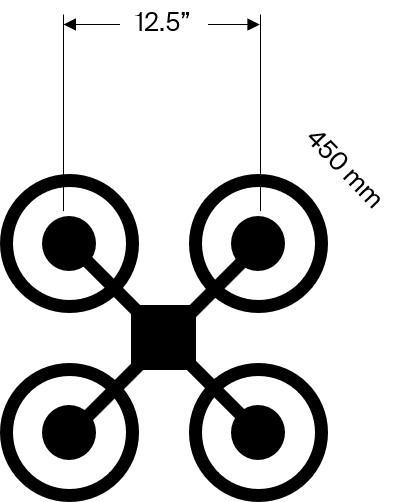
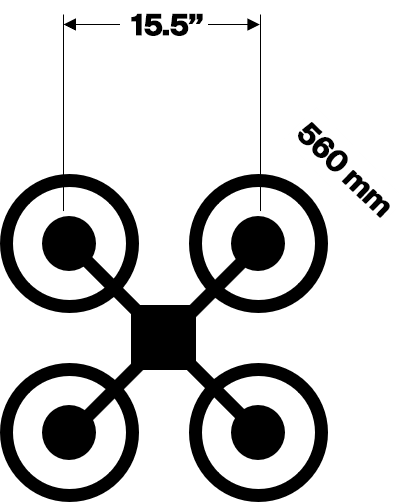
updated design doc diagrams

Changed region(s): [[0.7389, 0.239, 0.9754, 0.4482], [0.3251, 0.0, 0.5025, 0.0896]]

diff --git a/docs/design/3_2_multirotor_v2.tex b/docs/design/3_2_multirotor_v2.tex
@@ -146,11 +146,11 @@ The multirotor sports four 700 KV motors with stator size 3508.  According to dr
 Our decision process consists of screening and ranking the best motors through applying priorities as follows:
 
 \begin{enumerate}
-    \item Voltage: We chose a motor that operates between 12.0 V and 20.0 V, which is sufficient for heavy operations.
-    \item KV constant: Since the motors' RPM-per-volt ratio (KV constant) is inversely proportional of torque-per-current ratio (KT constant), we chose motors that have KV constants between 500 KV and 1000 KV. These constants are considered low-speed and high-torque, and are typically used for large drones and endurance flights. We also chose this range such that the propellers can spin slower and more efficiently, extending the maximum flight time.
-    \item Rotor size: As mentioned in the previous section on inrunners vs. outrunners, larger rotors imply a lower KV and higher KT. As a result, we chose motors within the 500 KV to 1000 KV range. Markets show that sizes denoted 3508 to 2212 are adequate for this purpose.
-    \item Maximum rated power: KV and KT constants are a simplified model for motor characteristics. The maximum power output is derived when considering realistic non-idealities such as heat, motor resistance, and mechanical limits. Typically 500 KV to 1000 KV motors have a rating between 150 W to 400 W, depending on the brand. We optimize for the most performant option allotted by our budget.
-    \item Weight: Given that the weight of motors have little variance, we prioritize this parameter the least.
+	\item Voltage: We chose a motor that operates between 12.0 V and 20.0 V, which is sufficient for heavy operations.
+	\item KV constant: Since the motors' RPM-per-volt ratio (KV constant) is inversely proportional of torque-per-current ratio (KT constant), we chose motors that have KV constants between 500 KV and 1000 KV. These constants are considered low-speed and high-torque, and are typically used for large drones and endurance flights. We also chose this range such that the propellers can spin slower and more efficiently, extending the maximum flight time.
+	\item Rotor size: As mentioned in the previous section on inrunners vs. outrunners, larger rotors imply a lower KV and higher KT. As a result, we chose motors within the 500 KV to 1000 KV range. Markets show that sizes denoted 3508 to 2212 are adequate for this purpose.
+	\item Maximum rated power: KV and KT constants are a simplified model for motor characteristics. The maximum power output is derived when considering realistic non-idealities such as heat, motor resistance, and mechanical limits. Typically 500 KV to 1000 KV motors have a rating between 150 W to 400 W, depending on the brand. We optimize for the most performant option allotted by our budget.
+	\item Weight: Given that the weight of motors have little variance, we prioritize this parameter the least.
 \end{enumerate}
 
 \paragraph{Electronic Speed Controllers}
@@ -173,18 +173,17 @@ Carbon fibre propellers are tough and rigid and produces efficient and low-noise
 We choose propellers with size 1250, where 12 denotes 12 inches in diameter, and 50 denotes 5.0 inches in propeller pitch. To maximize thrust and minimize speed (seeing how low speed is more desirable, as mentioned in Section \ref{section:motor-speed}), we strike a balance if we choose 11 to 13 inch propellers to be fitted onto the multirotor.
 
 \begin{figure}[h]
-    \centering
-    \includegraphics[scale=0.5]{img/proppitch}
-    \caption{Propellor Diameter and Pitch Parameters}
-    \label{fig:propeller}
+	\centering
+	\includegraphics[scale=0.5]{img/proppitch}
+	\caption{Propellor Diameter and Pitch Parameters}
+	\label{fig:propeller}
 \end{figure}
 
-% TODO: update this graph
 \begin{figure}[h]
-    \centering
-    \includegraphics[scale=0.5]{img/framepropsize}
-    \caption{Maximum Propeller Sizes}
-    \label{fig:framepropsize}
+	\centering
+	\includegraphics[width=0.2\textwidth]{img/framepropsize}
+	\caption{Maximum Propeller Sizes}
+	\label{fig:framepropsize}
 \end{figure}
 
 As mentioned in Section \ref{section:drone-mech} the frame size is 560 mm (22 inches), which means that the motor to motor adjacent span is about 15.5 inches (by dividing by $\sqrt{2}$). The  compatible size of propellers are between 11 to 14 inches to ensure several inches of clearance between propellers.
@@ -195,15 +194,14 @@ Mentioned in Section \ref{section:motor-speed}, we chose low-speed motors for th
 
 \paragraph{Battery}
 
-\begin{figure}[h]
-    \centering
-    \includegraphics[width=0.5\textwidth]{img/energydensity.png}
-    \caption{Energy Density Graph of Battery Types}
-    \label{fig:batterytypes}
-\end{figure}
-
 We choose lithium polymer (Li-Po) batteries as they have the highest energy density (highest capacity to weight ratio), and are thus  perfect for high-power, low-weight applications. Figure~\ref{fig:batterytypes} shows a graph of the energy densities for differing types of batteries \cite{battery} --- from this graph, Li-Po batteries are the clear choice.
 
+\begin{figure}[h]
+	\centering
+	\includegraphics[width=0.5\textwidth]{img/energydensity.png}
+	\caption{Energy Density Graph of Battery Types}
+	\label{fig:batterytypes}
+\end{figure}
 
 For a multirotor of this size, typical configurations include 3S and 4S (3 cells in series and 4 cells in series respectively) . As part of our deliverables (see List of Deliverables document), we provide a single 3S 5000 mAh battery with discharge rating of 30 C. The discharge rating indicates the maximum discharge current of the battery\cite{crate}:
 
@@ -216,17 +214,17 @@ $$
 Figure \ref{fig:pdb} depicts the layout of electrical power distribution for the multirotor subsystems. The 11.0 to 12.0 V from the 3S battery (or 14.0 to 15.0V of 4S batteries) is connected to a central PCB for power distribution. All the ESCs are to be connected in parallel to draw current from the battery. The power distribution board also has built-in voltage regulators for 5.0 V supply to digital flight hardware and other peripherals. The power distribution board is sandwiched between the flight controller unit/autopliot and the air frame as shown in Figure \ref{fig:pdb2}. Do not confuse the power distribution with the power supply for the payload. The power distribution shown here only supplies power to the multirotor subsystems and is independent of the PLB and PMB operations.
 
 \begin{figure}[h]
-    \centering
-    \includegraphics[width=0.6\textwidth]{img/pdb}
-    \caption{Multirotor Power Distribution Layout}
-    \label{fig:pdb}
+	\centering
+	\includegraphics[width=0.6\textwidth]{img/pdb}
+	\caption{Multirotor Power Distribution Layout}
+	\label{fig:pdb}
 \end{figure}
 
 \begin{figure}[h]
-    \centering
-    \includegraphics[width=0.4\textwidth]{img/pdb2}
-    \caption{Multirotor Power Distribution Assembly Diagram}
-    \label{fig:pdb2}
+	\centering
+	\includegraphics[width=0.4\textwidth]{img/pdb2}
+	\caption{Multirotor Power Distribution Assembly Diagram}
+	\label{fig:pdb2}
 \end{figure}
 
 \subsubsection{Flight Computer and Sensors}
@@ -237,39 +235,29 @@ To allow for a user with minimal flight training to use the multicopter successf
 	\includegraphics[width=15cm]{img/HUD.png}
 	\caption{APM Planner 2.0 Flight Display}
 	\label{flightdisplay}
-	\end{figure}
+\end{figure}
 
 
 \paragraph{Flight Computer Unit and Software}
 The flight controller included on the multirotor runs APM 2.8, a ubiquitous open-source firmware package. To program the flight cotroller APM Planner 2.0 is used, as seen in Figure \ref{flightdisplay}. The choice of flight controller and its dedicated software was necessitated by cost-limitations at purchasing time, however the differences between budget flight controllers is ultimately marginal.
 
-
 The use of APM Planner 2.0 and APM 2.8 provides the following features:
 
 \begin{enumerate}
-
-    \item Real-time telemetry collection: altitude, position, orientation, and battery levels
-     
-    \item Primary Flight Display (HUD) (seen in Figure \ref{flightdisplay})
-    
-    \item Flight-by-waypoint (using on-board GPS).
+	\item Real-time telemetry collection: altitude, position, orientation, and battery levels
+	\item Primary Flight Display (HUD) (seen in Figure \ref{flightdisplay})
+	\item Flight-by-waypoint (using on-board GPS).
 \end{enumerate}
 
 \paragraph{Flight Modes}
 The flight control unit provides modes to automate common flight patterns, including:
 
 \begin{enumerate}
-
-    \item Stabilize: Self-levels the roll and pitch axis
-    
-    \item Alt hold: Holds altitude and self-levels the roll and pitch axis
-    
-    \item Loiter: Holds altitude and position using GPS
-    
-    \item RTL: Returns to the takeoff position
-    
-    \item Auto: Executes pre-defined mission using waypoints
-    
+	\item Stabilize: Self-levels the roll and pitch axis
+	\item Alt hold: Holds altitude and self-levels the roll and pitch axis
+	\item Loiter: Holds altitude and position using GPS
+	\item RTL: Returns to the takeoff position
+	\item Auto: Executes pre-defined mission using waypoints
 \end{enumerate}
 
 \subsubsection{Communication and Control}

diff --git a/docs/design/3_1_7_computing_power.tex b/docs/design/3_1_7_computing_power.tex
@@ -24,7 +24,7 @@ Initially a custom designed power supply system was intended to be used. It was 
 
 \begin{figure}[H]
 \centering
-\includegraphics[width=15cm]{img/Power_Diagram.png}
+\includegraphics[width=13cm]{img/Power_Diagram.png}
 \caption{Original Custom-Designed Computing Power System}
 \label{powerdiag}
 \end{figure}
@@ -33,7 +33,7 @@ Using a custom designed power supply, DC-DC conversion would have been accomplis
 
 \begin{figure}[H]
 \centering
-\includegraphics[width=12cm]{img/power_bank.png}
+\includegraphics[width=0.4\textwidth]{img/power_bank.png}
 \caption{Commercial Power Bank}
 \label{powerbank}
 \end{figure}
